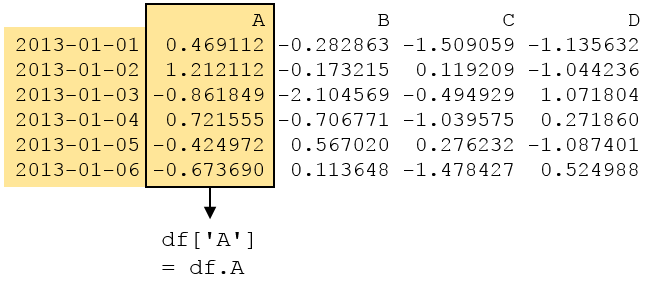
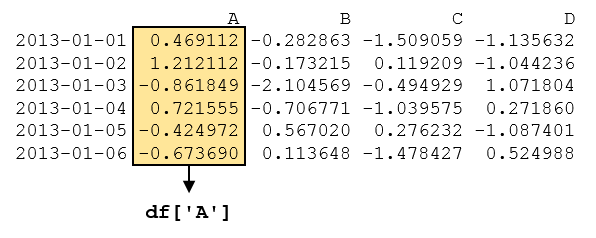
update images

Changed region(s): [[0.0, 0.0, 0.9664, 0.9412]]

diff --git a/_posts/2017-08-12-pandas-10min.md b/_posts/2017-08-12-pandas-10min.md
@@ -224,8 +224,6 @@ df.sort_values(by='B')
 
 한 컬럼의 값들만 가져오고 싶다면 DataFrame의 맨 뒤에 `df['A']`와 같은 형태로 입력합니다. 이는 `df.A`와 동일합니다. Series의 형태로 나타나는군요.
 
-![fig1](/images/2017-08-12-fig1.png "Selection column A"){: .center-image}
-
 ```python
 df['A']
 # 2013-01-01    0.469112
@@ -239,6 +237,10 @@ df['A']
 type(df['A'])
 # <class 'pandas.core.series.Series'>
 ```
+
+여러분의 이해를 돕기 위해 그림으로 다시 나타내면 다음과 같습니다. (앞으로도 쭉 그림으로 한번 더 설명할게요.)
+
+![Image](/images/2017-08-12-fig1.png "Select column A"){: .center-image}
 
 특정 행을 가져오고 싶다면 다음과 같이 리스트와 같이 `[]`를 이용하여 슬라이싱 합니다. 또는 인덱스의 값을 직접 넣어서 슬라이싱 할 수도 있습니다. 이 때에는 처음과 끝의 인덱싱 이름이 이 모두 포함된 결과를 얻습니다.
 
@@ -255,6 +257,8 @@ df['20130102':'20130104']
 # 2013-01-03 -0.861849 -2.104569 -0.494929  1.071804
 # 2013-01-04  0.721555 -0.706771 -1.039575  0.271860
 ```
+
+![Image](/images/2017-08-12-fig2.png "Select rows"){: .center-image}
 
 ### 이름을 이용하여 선택하기: `.loc`
 
